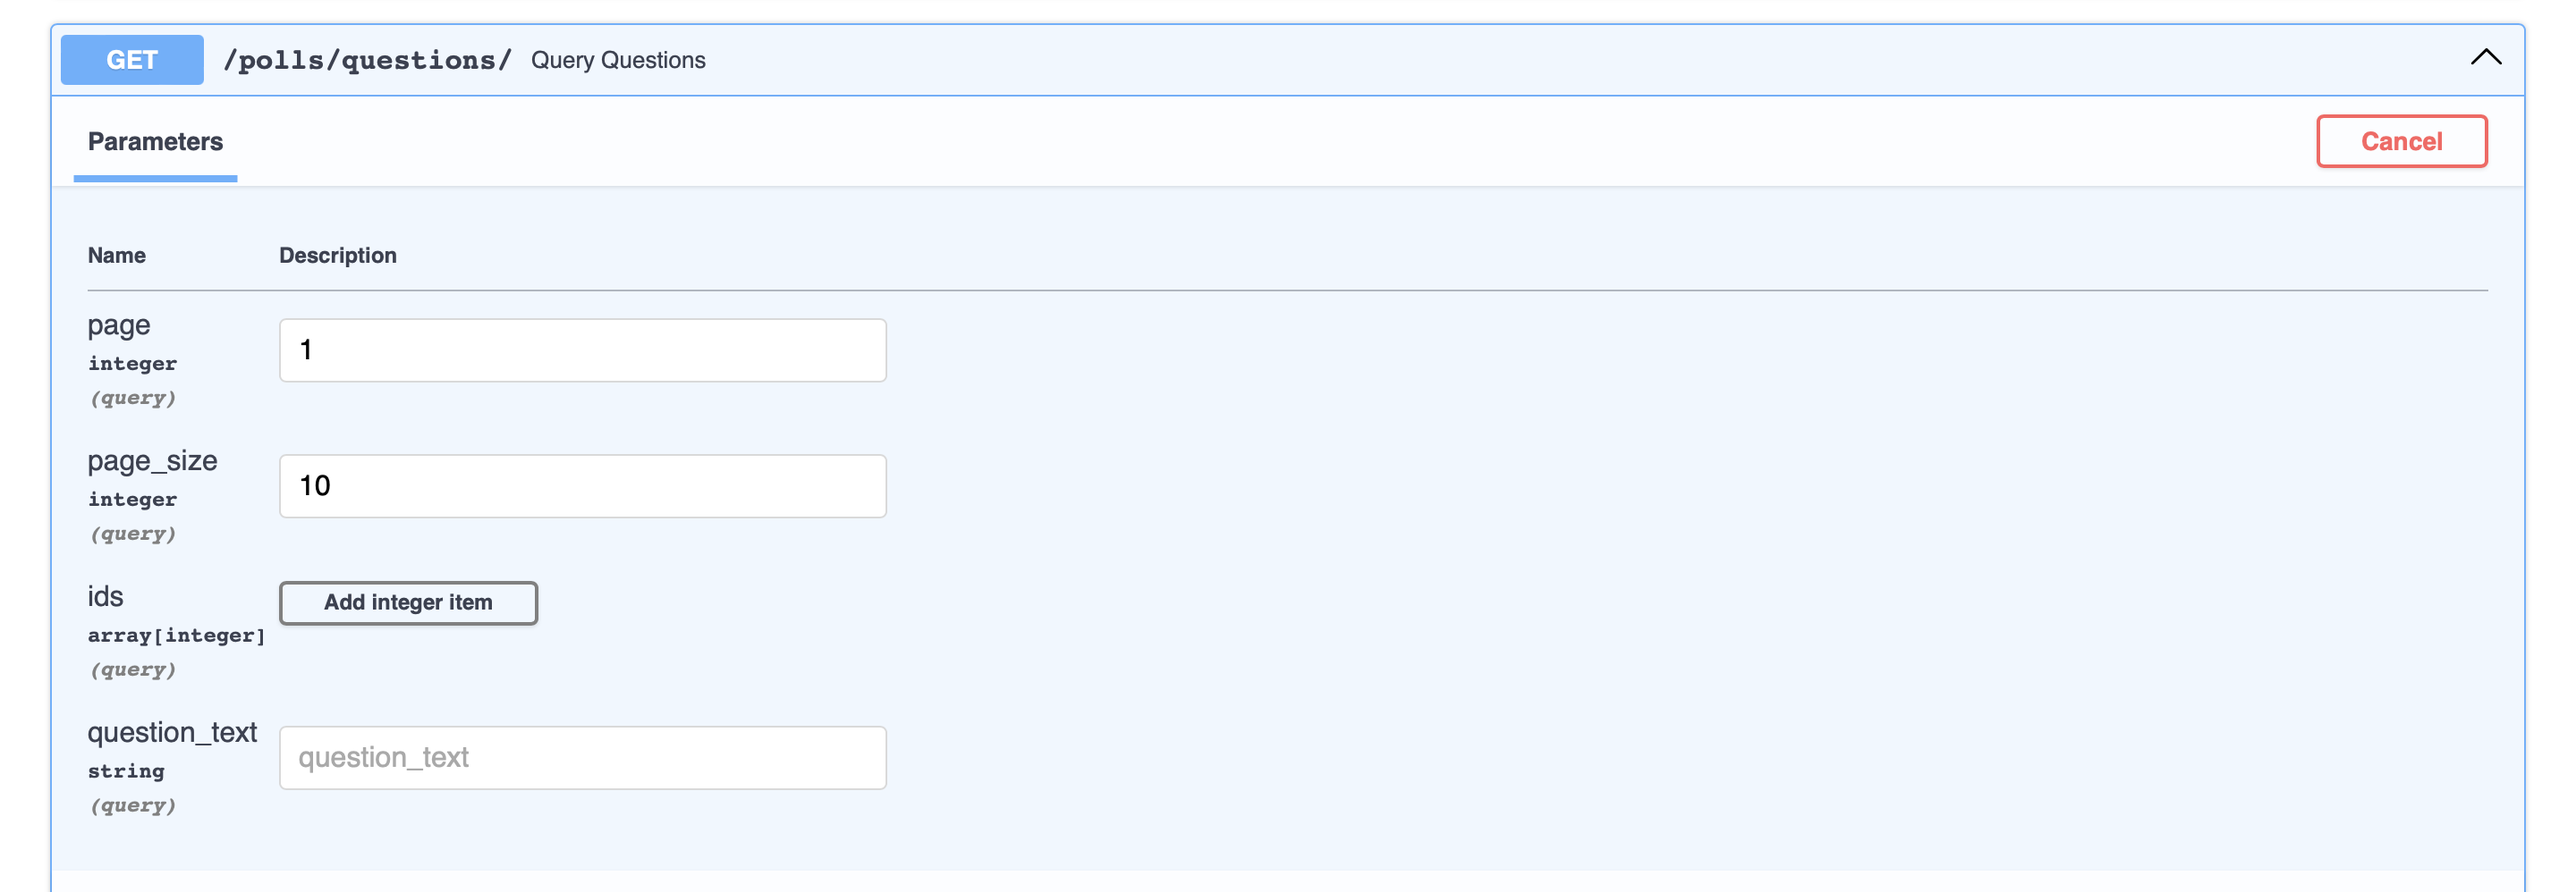
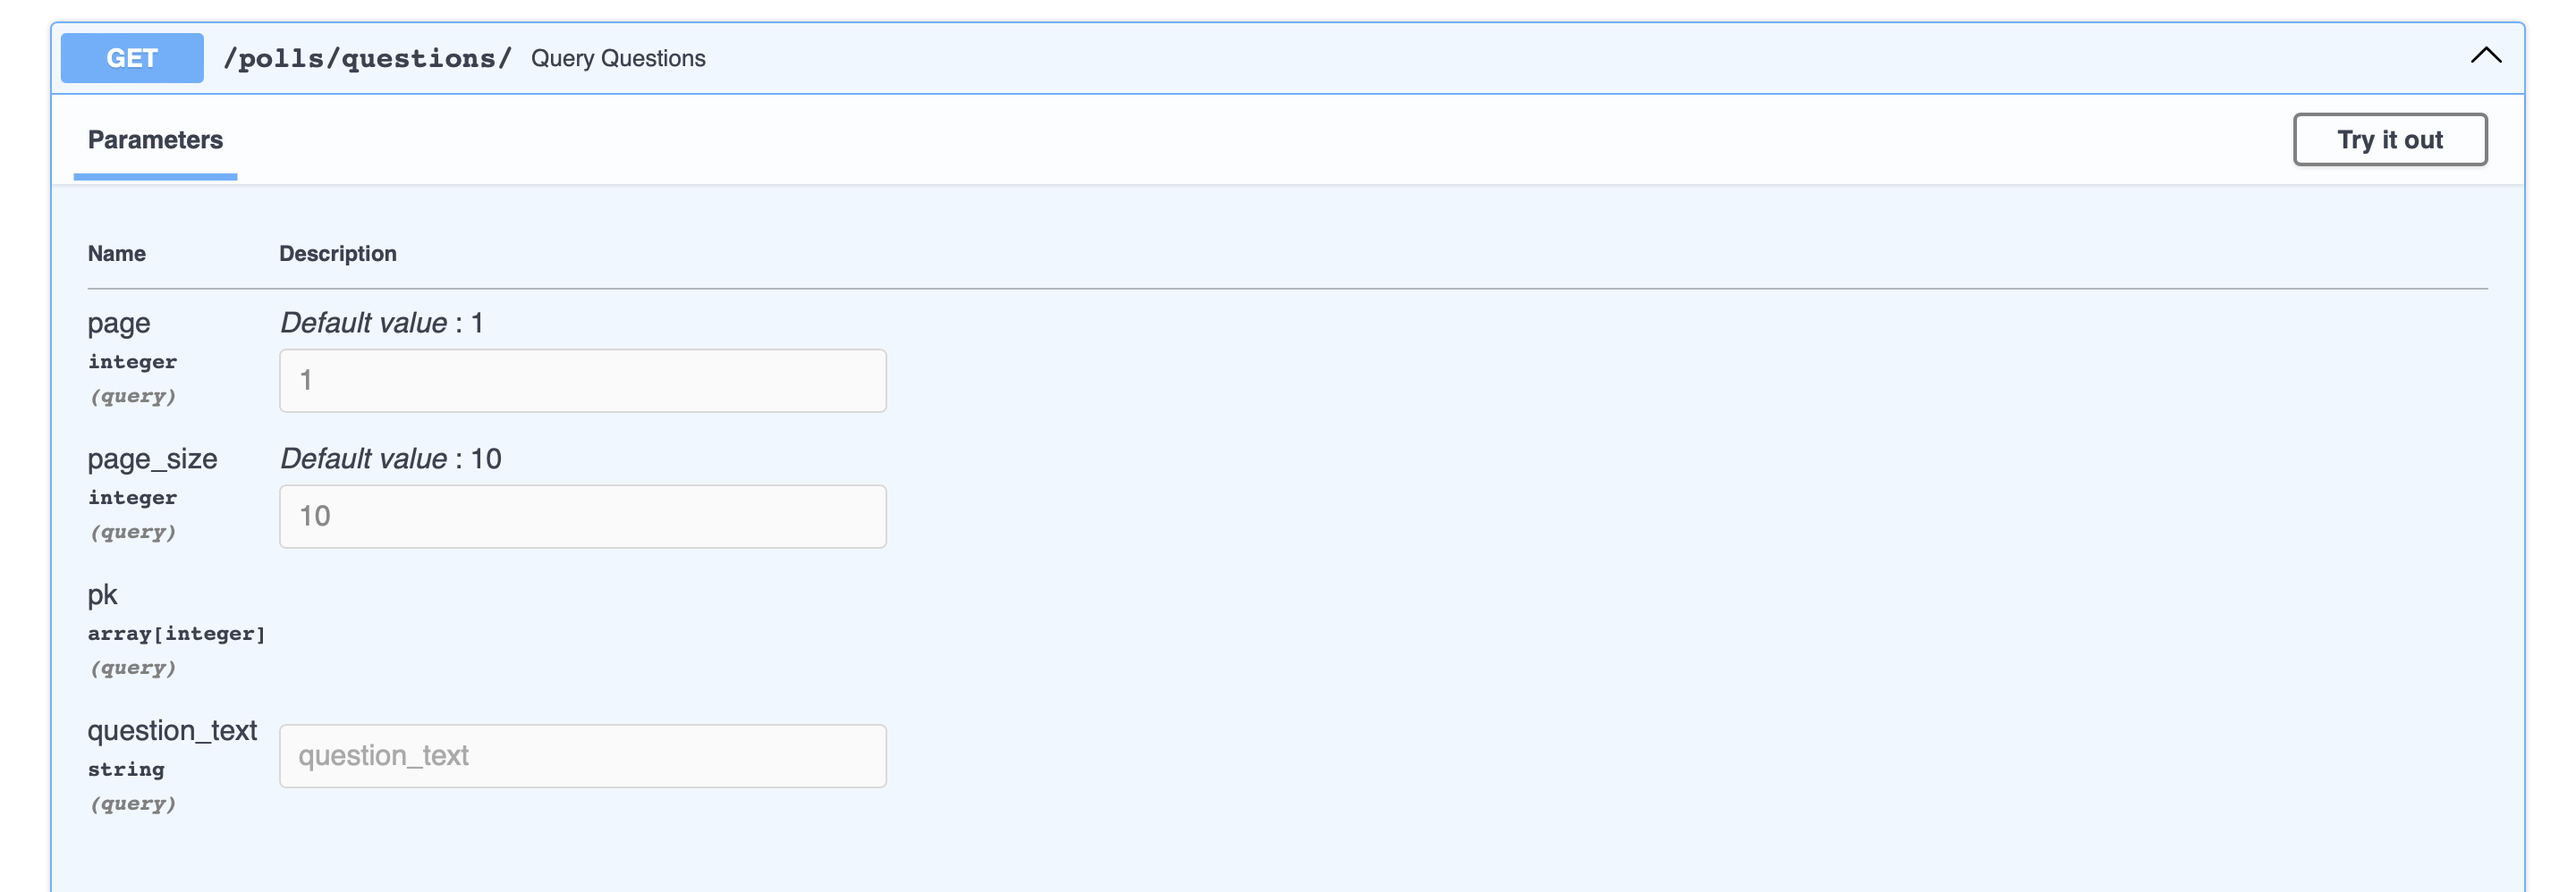
rename filter column_name to columns

diff --git a/appboot/filters.py b/appboot/filters.py
@@ -33,20 +33,20 @@ def equal_construct_condition(model, name, value):
 
 class QueryFieldInfo(FieldInfo):
     @property
-    def column_name(self) -> Optional[str]:
-        return getattr(self, '_column_name', None)
+    def columns(self) -> Optional[typing.Iterable[str]]:
+        return getattr(self, '_columns', None)
 
-    @column_name.setter
-    def column_name(self, value):
-        setattr(self, '_column_name', value)
+    @columns.setter
+    def columns(self, value):
+        setattr(self, '_columns', value)
 
-    def construct_condition(self, model, name, value):
+    def construct_condition(self, model, names, value):
         pass
 
 
 class EqFieldInfo(QueryFieldInfo):
-    def construct_condition(self, model, name, value):
-        return equal_construct_condition(model, name, value)
+    def construct_condition(self, model, names, value):
+        return equal_construct_condition(model, names[0], value)
 
 
 def construct_field(
@@ -58,8 +58,8 @@ def construct_field(
     title: Optional[str] = None,
     description: Optional[str] = None,
     exclude: Optional[Any] = None,
-    min_length: Optional[str] = None,
-    max_length: Optional[str] = None,
+    min_length: Optional[int] = None,
+    max_length: Optional[int] = None,
     gt: Optional[float] = None,
     lt: Optional[float] = None,
     ge: Optional[float] = None,
@@ -68,7 +68,7 @@ def construct_field(
     allow_inf_nan: Optional[bool] = None,
     max_digits: Optional[int] = None,
     decimal_places: Optional[int] = None,
-    column_name: Optional[str] = None,
+    columns: Optional[str | typing.Sequence[str]] = None,
     **kwargs: Any,
 ):
     field = field_cls(
@@ -91,7 +91,7 @@ def construct_field(
         decimal_places=decimal_places,
         **kwargs,
     )
-    field.column_name = column_name
+    field.columns = [columns] if isinstance(columns, str) else columns
     return field
 
 
@@ -104,8 +104,8 @@ def EqField(  # noqa
     title: Optional[str] = None,
     description: Optional[str] = None,
     exclude: Optional[Any] = None,
-    min_length: Optional[str] = None,
-    max_length: Optional[str] = None,
+    min_length: Optional[int] = None,
+    max_length: Optional[int] = None,
     gt: Optional[float] = None,
     lt: Optional[float] = None,
     ge: Optional[float] = None,
@@ -114,7 +114,7 @@ def EqField(  # noqa
     allow_inf_nan: Optional[bool] = None,
     max_digits: Optional[int] = None,
     decimal_places: Optional[int] = None,
-    column_name: Optional[str] = None,
+    columns: Optional[str | typing.Sequence[str]] = None,
     **kwargs: Any,
 ) -> Any:
     return construct_field(
@@ -136,14 +136,14 @@ def EqField(  # noqa
         allow_inf_nan=allow_inf_nan,
         max_digits=max_digits,
         decimal_places=decimal_places,
-        column_name=column_name,
+        columns=columns,
         **kwargs,
     )
 
 
 class GtFieldInfo(QueryFieldInfo):
-    def construct_condition(self, model, name, value):
-        return getattr(model, name) > value
+    def construct_condition(self, model, names, value):
+        return getattr(model, names[0]) > value
 
 
 def GtField(  # noqa
@@ -155,8 +155,8 @@ def GtField(  # noqa
     title: Optional[str] = None,
     description: Optional[str] = None,
     exclude: Optional[Any] = None,
-    min_length: Optional[str] = None,
-    max_length: Optional[str] = None,
+    min_length: Optional[int] = None,
+    max_length: Optional[int] = None,
     gt: Optional[float] = None,
     lt: Optional[float] = None,
     ge: Optional[float] = None,
@@ -165,7 +165,7 @@ def GtField(  # noqa
     allow_inf_nan: Optional[bool] = None,
     max_digits: Optional[int] = None,
     decimal_places: Optional[int] = None,
-    column_name: Optional[str] = None,
+    columns: Optional[str | typing.Sequence[str]] = None,
     **kwargs: Any,
 ) -> Any:
     return construct_field(
@@ -187,14 +187,14 @@ def GtField(  # noqa
         allow_inf_nan=allow_inf_nan,
         max_digits=max_digits,
         decimal_places=decimal_places,
-        column_name=column_name,
+        columns=columns,
         **kwargs,
     )
 
 
 class GeFieldInfo(QueryFieldInfo):
-    def construct_condition(self, model, name, value):
-        return getattr(model, name) >= value
+    def construct_condition(self, model, names, value):
+        return getattr(model, names[0]) >= value
 
 
 def GeField(  # noqa
@@ -206,8 +206,8 @@ def GeField(  # noqa
     title: Optional[str] = None,
     description: Optional[str] = None,
     exclude: Optional[Any] = None,
-    min_length: Optional[str] = None,
-    max_length: Optional[str] = None,
+    min_length: Optional[int] = None,
+    max_length: Optional[int] = None,
     gt: Optional[float] = None,
     lt: Optional[float] = None,
     ge: Optional[float] = None,
@@ -216,7 +216,7 @@ def GeField(  # noqa
     allow_inf_nan: Optional[bool] = None,
     max_digits: Optional[int] = None,
     decimal_places: Optional[int] = None,
-    column_name: Optional[str] = None,
+    columns: Optional[str | typing.Sequence[str]] = None,
     **kwargs: Any,
 ) -> Any:
     return construct_field(
@@ -238,14 +238,14 @@ def GeField(  # noqa
         allow_inf_nan=allow_inf_nan,
         max_digits=max_digits,
         decimal_places=decimal_places,
-        column_name=column_name,
+        columns=columns,
         **kwargs,
     )
 
 
 class LtFieldInfo(QueryFieldInfo):
-    def construct_condition(self, model, name, value):
-        return getattr(model, name) < value
+    def construct_condition(self, model, names, value):
+        return getattr(model, names[0]) < value
 
 
 def LtField(  # noqa
@@ -257,8 +257,8 @@ def LtField(  # noqa
     title: Optional[str] = None,
     description: Optional[str] = None,
     exclude: Optional[Any] = None,
-    min_length: Optional[str] = None,
-    max_length: Optional[str] = None,
+    min_length: Optional[int] = None,
+    max_length: Optional[int] = None,
     gt: Optional[float] = None,
     lt: Optional[float] = None,
     ge: Optional[float] = None,
@@ -267,7 +267,7 @@ def LtField(  # noqa
     allow_inf_nan: Optional[bool] = None,
     max_digits: Optional[int] = None,
     decimal_places: Optional[int] = None,
-    column_name: Optional[str] = None,
+    columns: Optional[str | typing.Sequence[str]] = None,
     **kwargs: Any,
 ) -> Any:
     return construct_field(
@@ -289,14 +289,14 @@ def LtField(  # noqa
         allow_inf_nan=allow_inf_nan,
         max_digits=max_digits,
         decimal_places=decimal_places,
-        column_name=column_name,
+        columns=columns,
         **kwargs,
     )
 
 
 class LeFieldInfo(QueryFieldInfo):
-    def construct_condition(self, model, name, value):
-        return getattr(model, name) <= value
+    def construct_condition(self, model, names, value):
+        return getattr(model, names[0]) <= value
 
 
 def LeField(  # noqa
@@ -308,8 +308,8 @@ def LeField(  # noqa
     title: Optional[str] = None,
     description: Optional[str] = None,
     exclude: Optional[Any] = None,
-    min_length: Optional[str] = None,
-    max_length: Optional[str] = None,
+    min_length: Optional[int] = None,
+    max_length: Optional[int] = None,
     gt: Optional[float] = None,
     lt: Optional[float] = None,
     ge: Optional[float] = None,
@@ -318,7 +318,7 @@ def LeField(  # noqa
     allow_inf_nan: Optional[bool] = None,
     max_digits: Optional[int] = None,
     decimal_places: Optional[int] = None,
-    column_name: Optional[str] = None,
+    columns: Optional[str | typing.Sequence[str]] = None,
     **kwargs: Any,
 ) -> Any:
     return construct_field(
@@ -340,14 +340,14 @@ def LeField(  # noqa
         allow_inf_nan=allow_inf_nan,
         max_digits=max_digits,
         decimal_places=decimal_places,
-        column_name=column_name,
+        columns=columns,
         **kwargs,
     )
 
 
 class ContainsFieldInfo(QueryFieldInfo):
-    def construct_condition(self, model, name, value):
-        return getattr(model, name).contains(value)
+    def construct_condition(self, model, names, value):
+        return getattr(model, names[0]).contains(value)
 
 
 def ContainsField(  # noqa
@@ -359,8 +359,8 @@ def ContainsField(  # noqa
     title: Optional[str] = None,
     description: Optional[str] = None,
     exclude: Optional[Any] = None,
-    min_length: Optional[str] = None,
-    max_length: Optional[str] = None,
+    min_length: Optional[int] = None,
+    max_length: Optional[int] = None,
     gt: Optional[float] = None,
     lt: Optional[float] = None,
     ge: Optional[float] = None,
@@ -369,7 +369,7 @@ def ContainsField(  # noqa
     allow_inf_nan: Optional[bool] = None,
     max_digits: Optional[int] = None,
     decimal_places: Optional[int] = None,
-    column_name: Optional[str] = None,
+    columns: Optional[str | typing.Sequence[str]] = None,
     **kwargs: Any,
 ) -> Any:
     return construct_field(
@@ -391,18 +391,18 @@ def ContainsField(  # noqa
         allow_inf_nan=allow_inf_nan,
         max_digits=max_digits,
         decimal_places=decimal_places,
-        column_name=column_name,
+        columns=columns,
         **kwargs,
     )
 
 
 class SearchFieldInfo(QueryFieldInfo):
-    def construct_condition(self, model, name, value):
+    def construct_condition(self, model, names, value):
         raise NotImplementedError
 
 
 class OrderingFieldInfo(QueryFieldInfo):
-    def construct_condition(self, model, name, value):
+    def construct_condition(self, model, names, value):
         raise NotImplementedError
 
 
@@ -421,9 +421,12 @@ class BaseFilter(Schema):
                 continue
             if not isinstance(field_info, QueryFieldInfo):
                 continue
-            column_name = field_info.column_name or name
-            if not hasattr(model, column_name):
-                raise FilterError(f'Model {model.__name__} has no column {column_name}')
-            condition = field_info.construct_condition(model, column_name, value)
+            columns = field_info.columns or [name]
+            for column_name in columns:
+                if not hasattr(model, column_name):
+                    raise FilterError(
+                        f'Model {model.__name__} has no column {column_name}'
+                    )
+            condition = field_info.construct_condition(model, columns, value)
             conditions.append(condition)
         return and_(*conditions)

diff --git a/examples/mysite/polls/schema.py b/examples/mysite/polls/schema.py
@@ -8,7 +8,7 @@ from polls.models import Choice, Question
 
 
 class QuestionQuerySchema(QuerySchema):
-    ids: Optional[list[int]] = EqField(None, column_name='id')
+    ids: Optional[list[int]] = EqField(None, alias='pk', columns='id')
     question_text: Optional[str] = ContainsField(None)
 
 

diff --git a/README.md b/README.md
@@ -109,7 +109,7 @@ from appboot.params import QuerySchema
 from appboot.filters import EqField, ContainsField
 
 class QuestionQuerySchema(QuerySchema):
-    ids: Optional[list[int]] = EqField(None, column_name='id')  # query question by id list
+    ids: Optional[list[int]] = EqField(None, alias='pk', columns='id')  # query question by id list
     question_text: Optional[str] = ContainsField(None)  # fuzzy query question_text
 ```
 Replace QuerySchema with QuestionQuerySchema in the file polls/views.py, refresh docs in browser, You will see two new query param in query questions api
